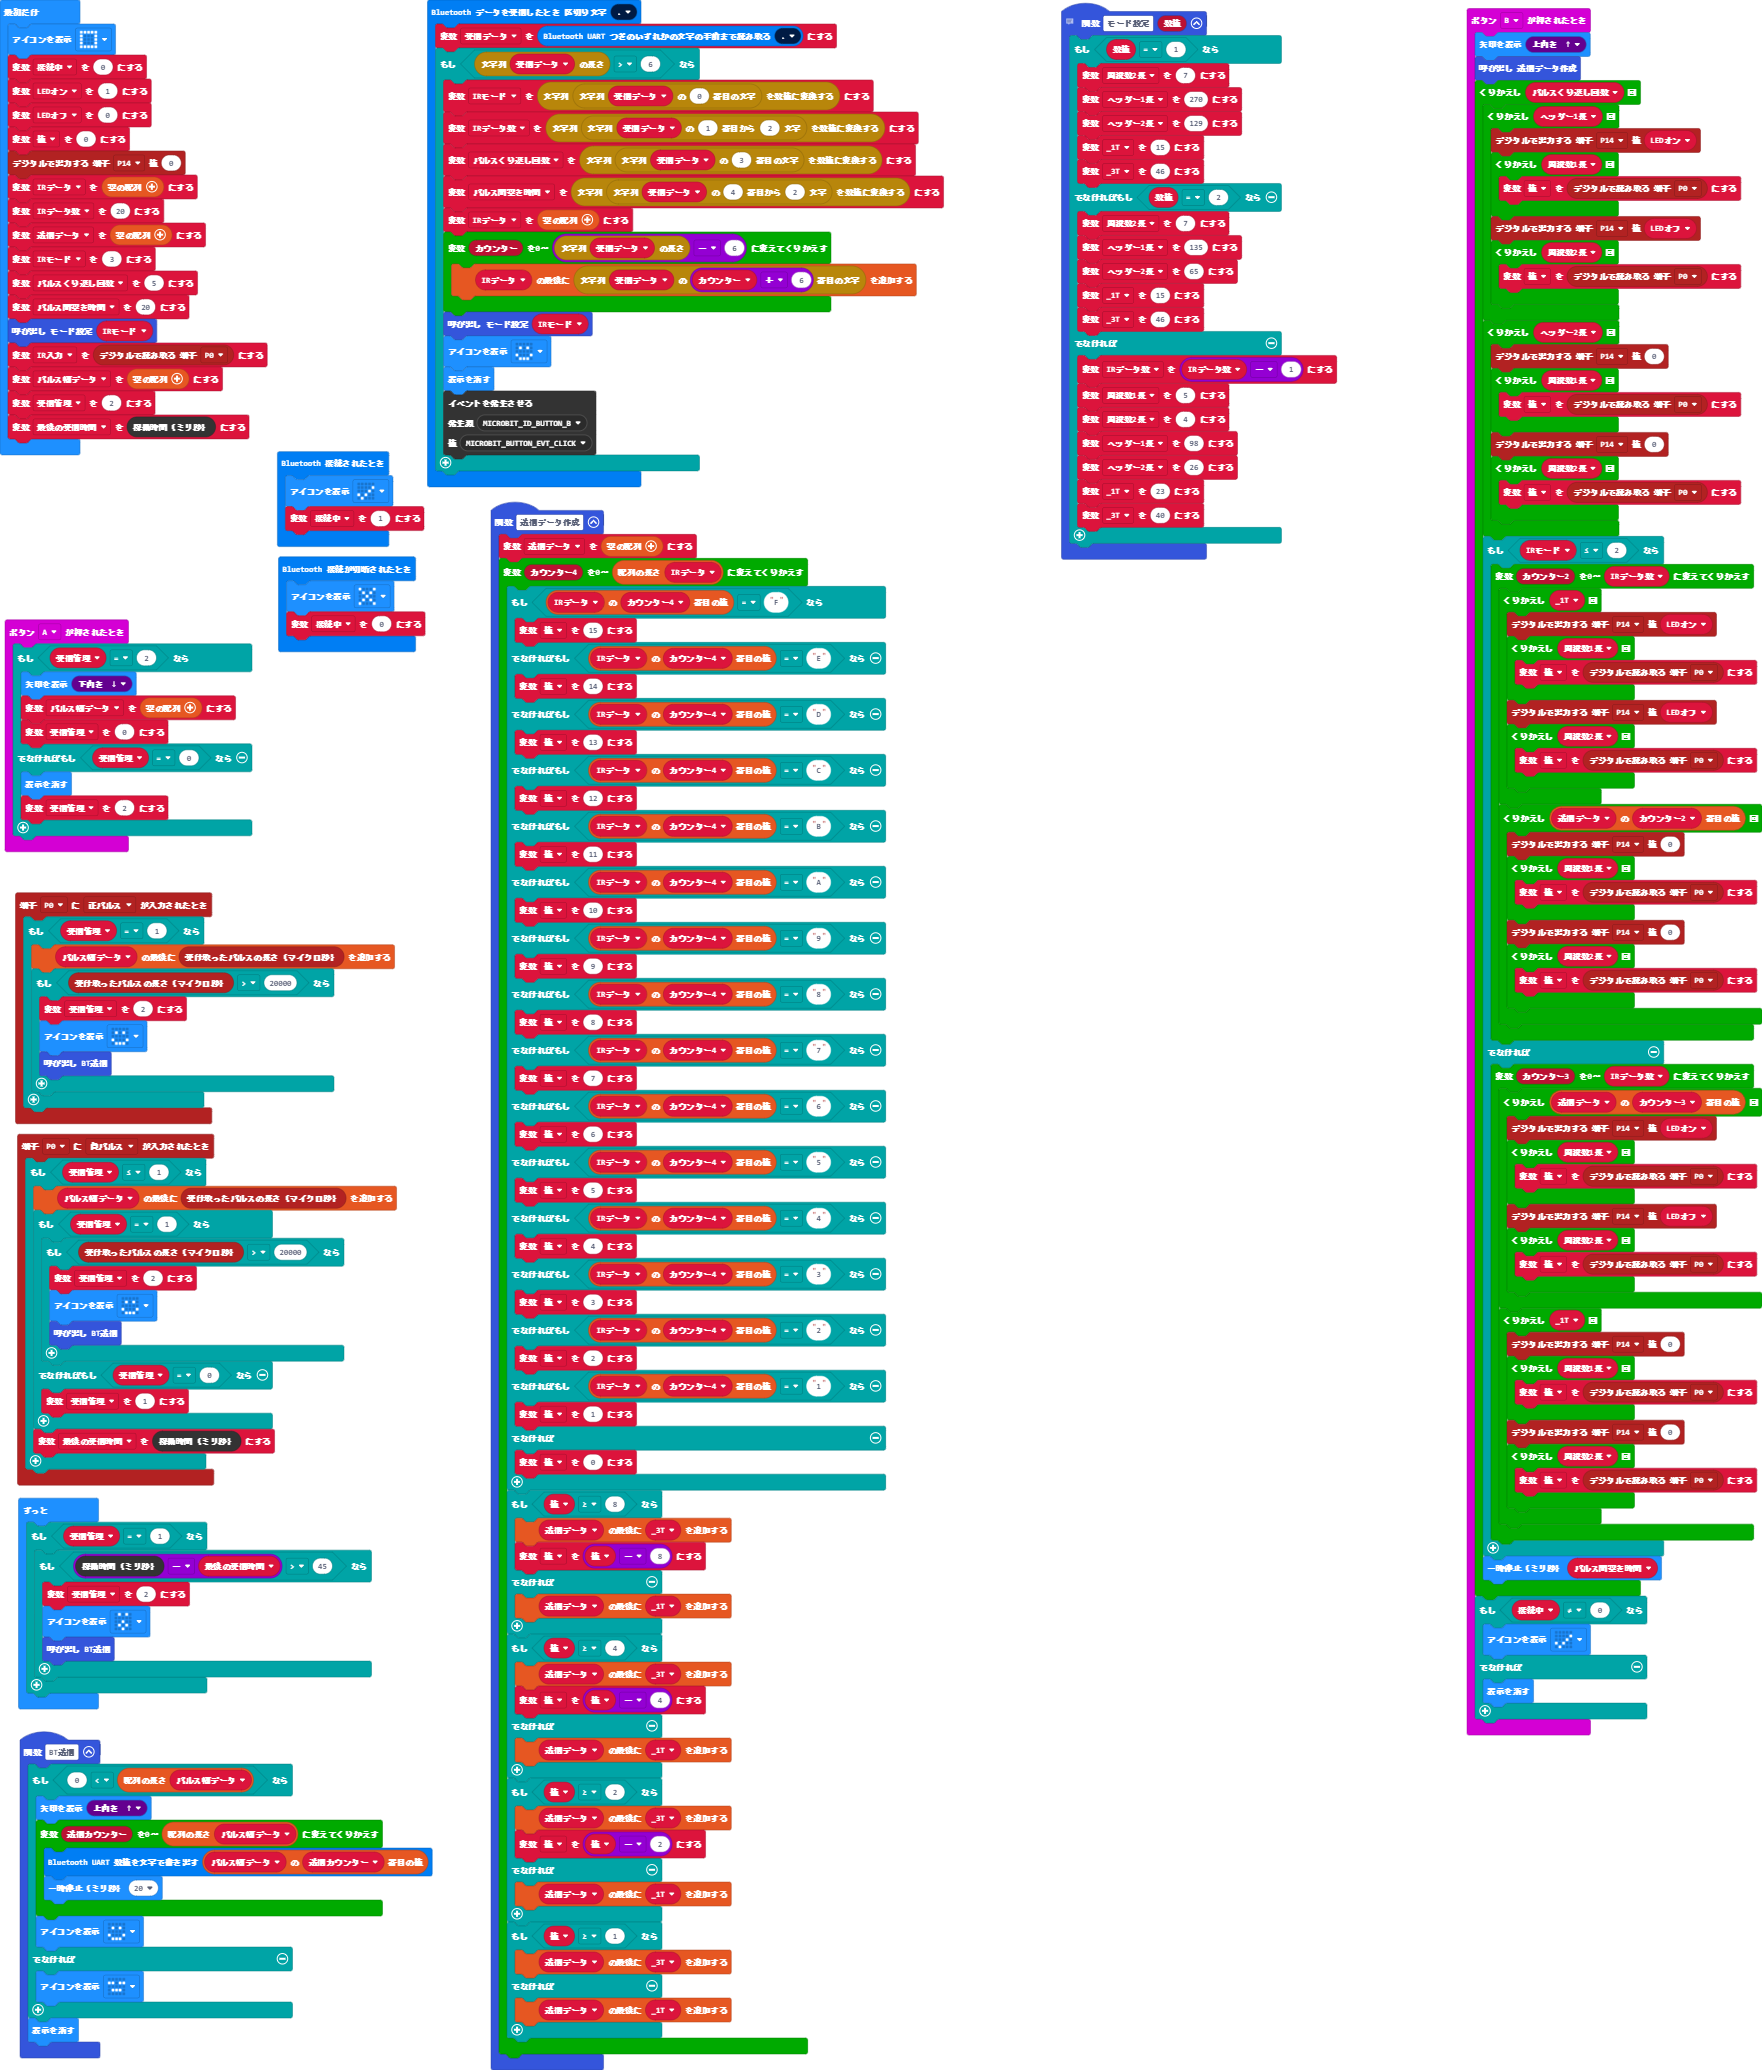
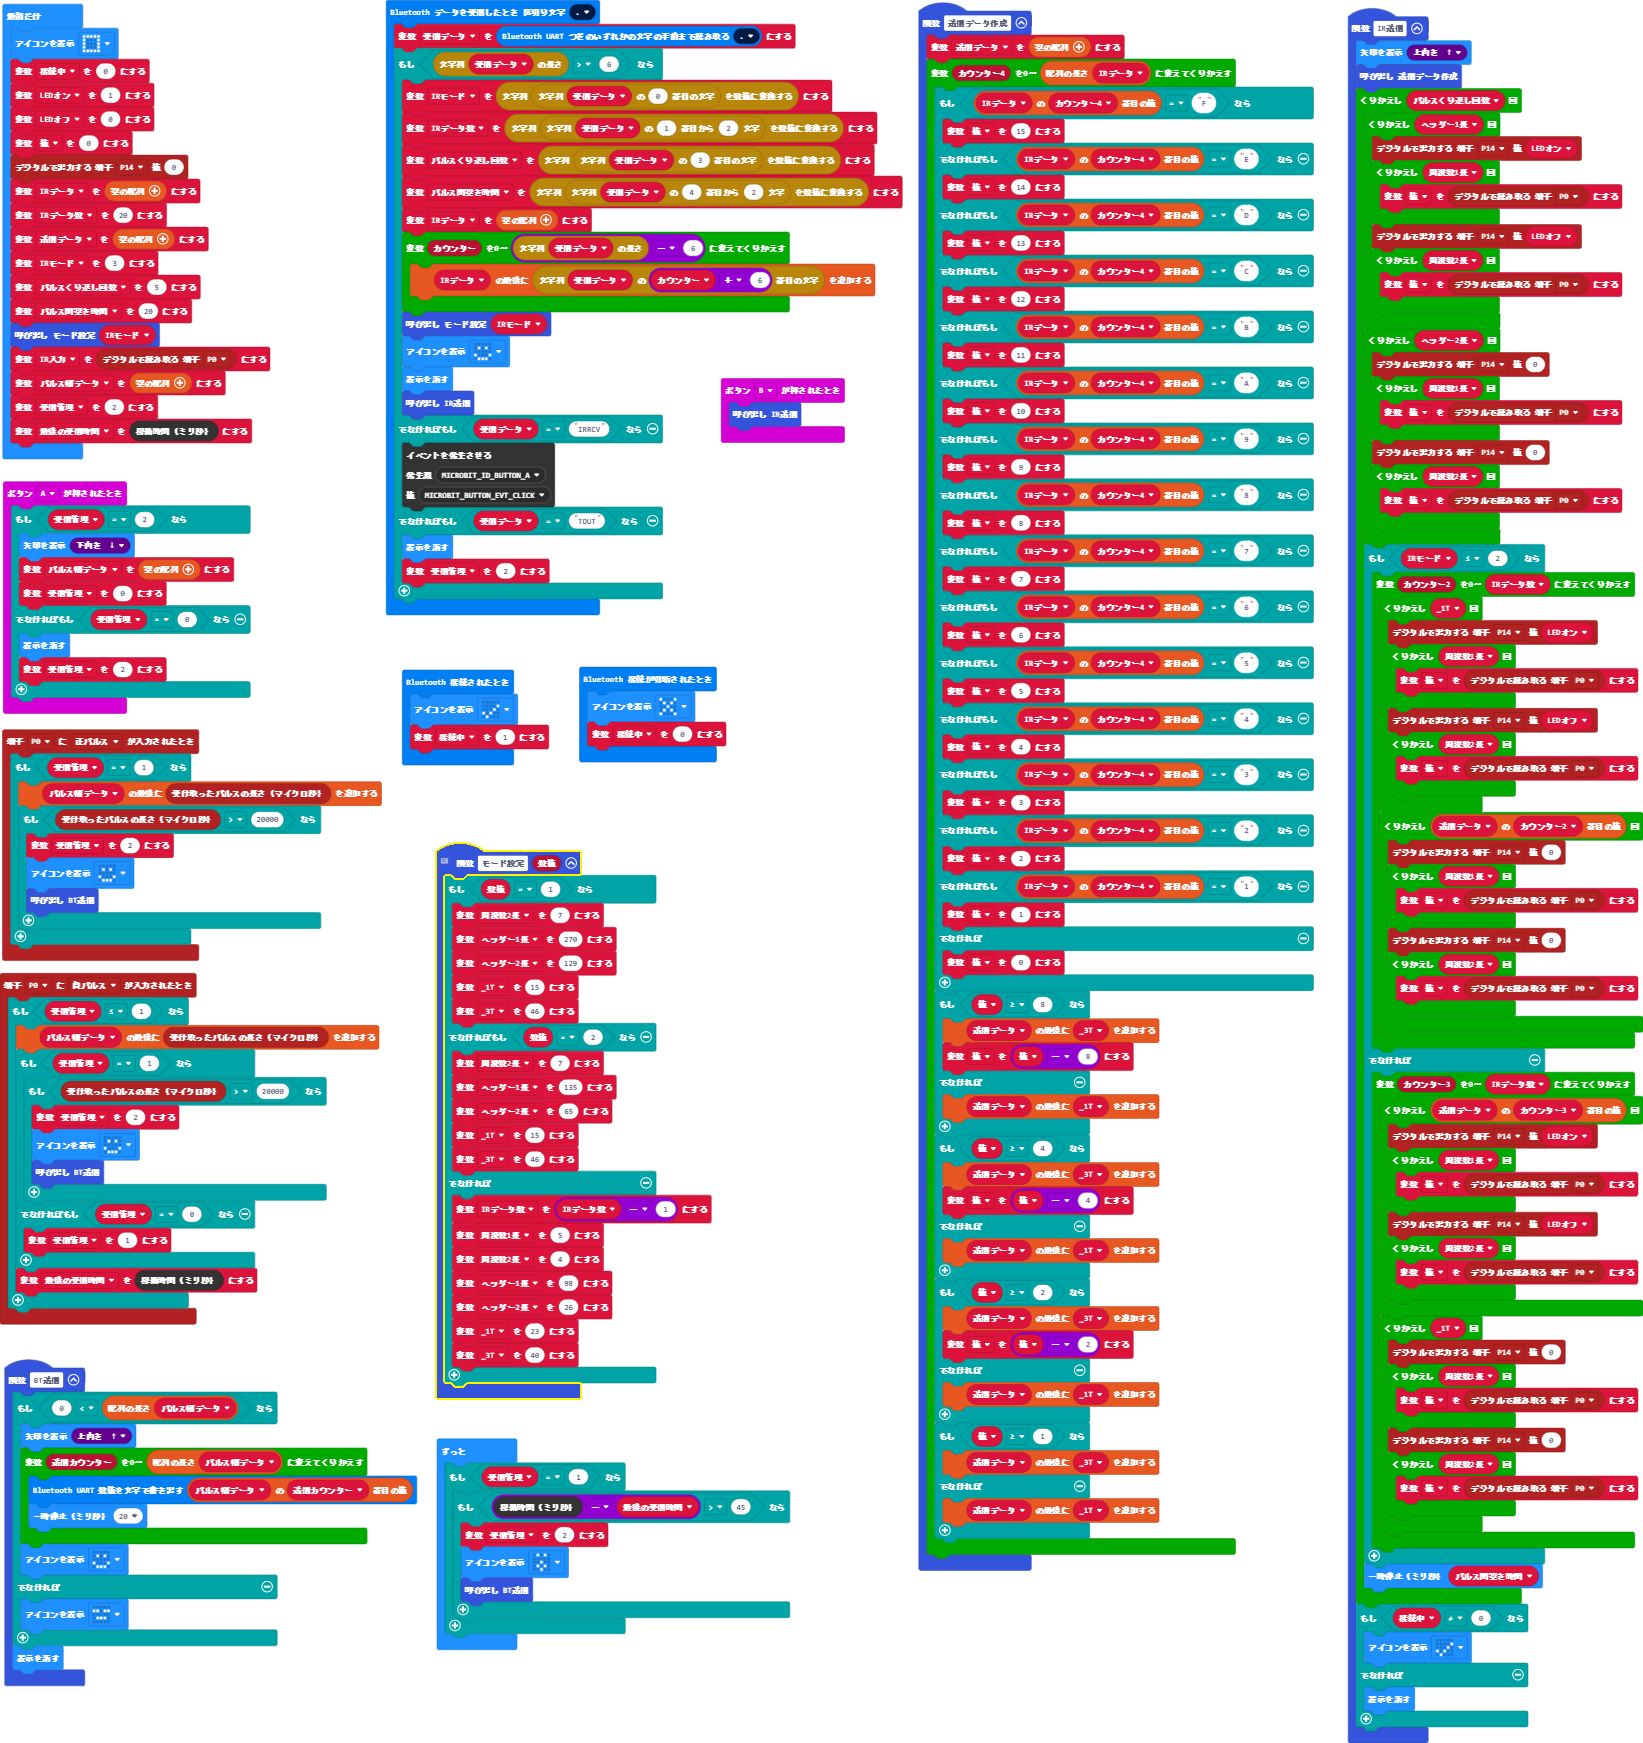
更新 main.blocks, main.ts

diff --git a/main.ts b/main.ts
@@ -1,3 +1,82 @@
+function IR送信 () {
+    basic.showArrow(ArrowNames.North)
+    送信データ作成()
+    for (let index = 0; index < パルスくり返し回数; index++) {
+        for (let index = 0; index < ヘッダー1長; index++) {
+            pins.digitalWritePin(DigitalPin.P14, LEDオン)
+            for (let index = 0; index < 周波数1長; index++) {
+                値 = pins.digitalReadPin(DigitalPin.P0)
+            }
+            pins.digitalWritePin(DigitalPin.P14, LEDオフ)
+            for (let index = 0; index < 周波数2長; index++) {
+                値 = pins.digitalReadPin(DigitalPin.P0)
+            }
+        }
+        for (let index = 0; index < ヘッダー2長; index++) {
+            pins.digitalWritePin(DigitalPin.P14, 0)
+            for (let index = 0; index < 周波数1長; index++) {
+                値 = pins.digitalReadPin(DigitalPin.P0)
+            }
+            pins.digitalWritePin(DigitalPin.P14, 0)
+            for (let index = 0; index < 周波数2長; index++) {
+                値 = pins.digitalReadPin(DigitalPin.P0)
+            }
+        }
+        if (IRモード <= 2) {
+            for (let カウンター2 = 0; カウンター2 <= IRデータ数; カウンター2++) {
+                for (let index = 0; index < _1T; index++) {
+                    pins.digitalWritePin(DigitalPin.P14, LEDオン)
+                    for (let index = 0; index < 周波数1長; index++) {
+                        値 = pins.digitalReadPin(DigitalPin.P0)
+                    }
+                    pins.digitalWritePin(DigitalPin.P14, LEDオフ)
+                    for (let index = 0; index < 周波数2長; index++) {
+                        値 = pins.digitalReadPin(DigitalPin.P0)
+                    }
+                }
+                for (let index = 0; index < 送信データ[カウンター2]; index++) {
+                    pins.digitalWritePin(DigitalPin.P14, 0)
+                    for (let index = 0; index < 周波数1長; index++) {
+                        値 = pins.digitalReadPin(DigitalPin.P0)
+                    }
+                    pins.digitalWritePin(DigitalPin.P14, 0)
+                    for (let index = 0; index < 周波数2長; index++) {
+                        値 = pins.digitalReadPin(DigitalPin.P0)
+                    }
+                }
+            }
+        } else {
+            for (let カウンター3 = 0; カウンター3 <= IRデータ数; カウンター3++) {
+                for (let index = 0; index < 送信データ[カウンター3]; index++) {
+                    pins.digitalWritePin(DigitalPin.P14, LEDオン)
+                    for (let index = 0; index < 周波数1長; index++) {
+                        値 = pins.digitalReadPin(DigitalPin.P0)
+                    }
+                    pins.digitalWritePin(DigitalPin.P14, LEDオフ)
+                    for (let index = 0; index < 周波数2長; index++) {
+                        値 = pins.digitalReadPin(DigitalPin.P0)
+                    }
+                }
+                for (let index = 0; index < _1T; index++) {
+                    pins.digitalWritePin(DigitalPin.P14, 0)
+                    for (let index = 0; index < 周波数1長; index++) {
+                        値 = pins.digitalReadPin(DigitalPin.P0)
+                    }
+                    pins.digitalWritePin(DigitalPin.P14, 0)
+                    for (let index = 0; index < 周波数2長; index++) {
+                        値 = pins.digitalReadPin(DigitalPin.P0)
+                    }
+                }
+            }
+        }
+        basic.pause(パルス間空き時間)
+    }
+    if (接続中 != 0) {
+        basic.showIcon(IconNames.Yes)
+    } else {
+        basic.clearScreen()
+    }
+}
 pins.onPulsed(DigitalPin.P0, PulseValue.High, function () {
     if (受信管理 == 1) {
         パルス幅データ.push(pins.pulseDuration())
@@ -83,10 +162,15 @@ bluetooth.onUartDataReceived(serial.delimiters(Delimiters.Fullstop), function ()
         モード設定(IRモード)
         basic.showIcon(IconNames.Happy)
         basic.clearScreen()
+        IR送信()
+    } else if (受信データ == "IRRCV") {
         control.raiseEvent(
-        EventBusSource.MICROBIT_ID_BUTTON_B,
+        EventBusSource.MICROBIT_ID_BUTTON_A,
         EventBusValue.MICROBIT_BUTTON_EVT_CLICK
         )
+    } else if (受信データ == "TOUT") {
+        basic.clearScreen()
+        受信管理 = 2
     }
 })
 pins.onPulsed(DigitalPin.P0, PulseValue.Low, function () {
@@ -105,83 +189,7 @@ pins.onPulsed(DigitalPin.P0, PulseValue.Low, function () {
     }
 })
 input.onButtonPressed(Button.B, function () {
-    basic.showArrow(ArrowNames.North)
-    送信データ作成()
-    for (let index = 0; index < パルスくり返し回数; index++) {
-        for (let index = 0; index < ヘッダー1長; index++) {
-            pins.digitalWritePin(DigitalPin.P14, LEDオン)
-            for (let index = 0; index < 周波数1長; index++) {
-                値 = pins.digitalReadPin(DigitalPin.P0)
-            }
-            pins.digitalWritePin(DigitalPin.P14, LEDオフ)
-            for (let index = 0; index < 周波数2長; index++) {
-                値 = pins.digitalReadPin(DigitalPin.P0)
-            }
-        }
-        for (let index = 0; index < ヘッダー2長; index++) {
-            pins.digitalWritePin(DigitalPin.P14, 0)
-            for (let index = 0; index < 周波数1長; index++) {
-                値 = pins.digitalReadPin(DigitalPin.P0)
-            }
-            pins.digitalWritePin(DigitalPin.P14, 0)
-            for (let index = 0; index < 周波数2長; index++) {
-                値 = pins.digitalReadPin(DigitalPin.P0)
-            }
-        }
-        if (IRモード <= 2) {
-            for (let カウンター2 = 0; カウンター2 <= IRデータ数; カウンター2++) {
-                for (let index = 0; index < _1T; index++) {
-                    pins.digitalWritePin(DigitalPin.P14, LEDオン)
-                    for (let index = 0; index < 周波数1長; index++) {
-                        値 = pins.digitalReadPin(DigitalPin.P0)
-                    }
-                    pins.digitalWritePin(DigitalPin.P14, LEDオフ)
-                    for (let index = 0; index < 周波数2長; index++) {
-                        値 = pins.digitalReadPin(DigitalPin.P0)
-                    }
-                }
-                for (let index = 0; index < 送信データ[カウンター2]; index++) {
-                    pins.digitalWritePin(DigitalPin.P14, 0)
-                    for (let index = 0; index < 周波数1長; index++) {
-                        値 = pins.digitalReadPin(DigitalPin.P0)
-                    }
-                    pins.digitalWritePin(DigitalPin.P14, 0)
-                    for (let index = 0; index < 周波数2長; index++) {
-                        値 = pins.digitalReadPin(DigitalPin.P0)
-                    }
-                }
-            }
-        } else {
-            for (let カウンター3 = 0; カウンター3 <= IRデータ数; カウンター3++) {
-                for (let index = 0; index < 送信データ[カウンター3]; index++) {
-                    pins.digitalWritePin(DigitalPin.P14, LEDオン)
-                    for (let index = 0; index < 周波数1長; index++) {
-                        値 = pins.digitalReadPin(DigitalPin.P0)
-                    }
-                    pins.digitalWritePin(DigitalPin.P14, LEDオフ)
-                    for (let index = 0; index < 周波数2長; index++) {
-                        値 = pins.digitalReadPin(DigitalPin.P0)
-                    }
-                }
-                for (let index = 0; index < _1T; index++) {
-                    pins.digitalWritePin(DigitalPin.P14, 0)
-                    for (let index = 0; index < 周波数1長; index++) {
-                        値 = pins.digitalReadPin(DigitalPin.P0)
-                    }
-                    pins.digitalWritePin(DigitalPin.P14, 0)
-                    for (let index = 0; index < 周波数2長; index++) {
-                        値 = pins.digitalReadPin(DigitalPin.P0)
-                    }
-                }
-            }
-        }
-        basic.pause(パルス間空き時間)
-    }
-    if (接続中 != 0) {
-        basic.showIcon(IconNames.Yes)
-    } else {
-        basic.clearScreen()
-    }
+    IR送信()
 })
 function 送信データ作成 () {
     送信データ = []
@@ -245,12 +253,12 @@ function 送信データ作成 () {
     }
 }
 let 受信データ = ""
-let 周波数1長 = 0
 let _3T = 0
 let _1T = 0
 let ヘッダー2長 = 0
-let ヘッダー1長 = 0
 let 周波数2長 = 0
+let 周波数1長 = 0
+let ヘッダー1長 = 0
 let 最後の受信時間 = 0
 let 受信管理 = 0
 let パルス幅データ: number[] = []
